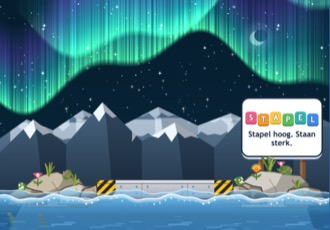
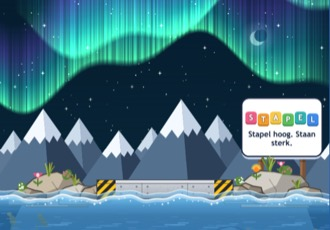
1.15: the northern lights' mountains as real peaks (lit and shaded faces, snow down both slopes); its Winkel photo

diff --git a/js/scenes/bgskins.js b/js/scenes/bgskins.js
@@ -914,64 +914,67 @@ function drawFlare(ctx, w, h) {
 
 /** Noorderlig: snowy peaks and a dark pine forest with snow on its tips. */
 function drawNordic(ctx, w, h) {
-  // (1.15, the owner: "The mountains looks off") a hazy far range, then the main peaks lit from the left (the aurora's side)
-  // and shaded on the right, snow that follows the slopes with a ragged edge; the forest in front
-  const clipTo = (pts) => {
+  // (1.15, the owner: "The mountains looks off", then "Still doesnt feel right, the mountains...") real peaks: each mountain
+  // a triangle with a lit left face and a shaded right face, its snow following both slopes down to a ragged edge; a hazy
+  // far range behind, the main range in front
+  const mountain = (cx, peak, half, lit, dark, snow, depth) => {
+    const X = cx * w;
+    const Y = peak * h;
+    const L = (cx - half) * w;
+    const R = (cx + half) * w;
+    const B = h + 2;
+    const ridgeX = X + half * w * 0.12;   // where the two faces meet at the foot
+    ctx.fillStyle = lit;
     ctx.beginPath();
-    ctx.moveTo(-2, h + 2);
-    for (const [x, y] of pts) ctx.lineTo(x * w, y * h);
-    ctx.lineTo(w + 2, h + 2);
+    ctx.moveTo(L, B);
+    ctx.lineTo(X, Y);
+    ctx.lineTo(ridgeX, B);
     ctx.closePath();
-    ctx.clip();
-  };
-  const snowcaps = (pts, depth, fill) => {
-    ctx.save();
-    clipTo(pts);
-    ctx.fillStyle = fill;
-    for (let i = 1; i < pts.length - 1; i++) {
-      const [px, py] = pts[i];
-      if (py > 0.52) continue;
-      ctx.beginPath();
-      ctx.moveTo((px - 0.13) * w, (py - 0.05) * h);
-      ctx.lineTo((px + 0.13) * w, (py - 0.05) * h);
-      for (let k = 0; k <= 13; k++) {
-        const x = px + 0.13 - k * 0.02;
-        const y = py + depth * (k % 2 ? 1 : 0.62) + (k % 3 === 1 ? depth * 0.25 : 0);
-        ctx.lineTo(x * w, y * h);
+    ctx.fill();
+    ctx.fillStyle = dark;
+    ctx.beginPath();
+    ctx.moveTo(X, Y);
+    ctx.lineTo(R, B);
+    ctx.lineTo(ridgeX, B);
+    ctx.closePath();
+    ctx.fill();
+    // the snow: down each slope to `depth` of the height, a ragged lower edge (lit and shaded like the rock)
+    const at = (f, side) => [X + (side < 0 ? L - X : R - X) * f, Y + (B - Y) * f];
+    const [lx, ly] = at(depth, -1);
+    const [rx, ry] = at(depth * 0.92, 1);
+    const mx = X + (ridgeX - X) * depth;
+    const my = Y + (B - Y) * depth;
+    const jag = (x0, y0, x1, y1, n, amp) => {
+      for (let k = 1; k <= n; k++) {
+        const f = k / n;
+        ctx.lineTo(x0 + (x1 - x0) * f, y0 + (y1 - y0) * f + (k % 2 ? amp : -amp * 0.4));
       }
-      ctx.closePath();
-      ctx.fill();
-    }
-    ctx.restore();
+    };
+    ctx.fillStyle = snow[0];
+    ctx.beginPath();
+    ctx.moveTo(X, Y);
+    ctx.lineTo(lx, ly);
+    jag(lx, ly, mx, my, 4, (B - Y) * depth * 0.18);
+    ctx.closePath();
+    ctx.fill();
+    ctx.fillStyle = snow[1];
+    ctx.beginPath();
+    ctx.moveTo(X, Y);
+    ctx.lineTo(mx, my);
+    jag(mx, my, rx, ry, 4, (B - Y) * depth * 0.16);
+    ctx.closePath();
+    ctx.fill();
   };
-  const shade = (pts, a) => {
-    ctx.save();
-    clipTo(pts);
-    ctx.fillStyle = `rgba(6,14,28,${a})`;
-    for (let i = 1; i < pts.length - 1; i++) {
-      const [px, py] = pts[i];
-      const [vx, vy] = pts[i + 1];
-      if (vy < py) continue;   // (not a peak)
-      ctx.beginPath();
-      ctx.moveTo(px * w, py * h);
-      ctx.lineTo(vx * w, vy * h);
-      ctx.lineTo(vx * w, h + 2);
-      ctx.lineTo((px + 0.035) * w, h + 2);
-      ctx.lineTo((px + 0.012) * w, (py + 0.12) * h);
-      ctx.closePath();
-      ctx.fill();
-    }
-    ctx.restore();
-  };
-  const far = [[0, 0.55], [0.08, 0.43], [0.16, 0.5], [0.25, 0.37], [0.36, 0.48], [0.48, 0.35], [0.6, 0.47], [0.7, 0.39], [0.82, 0.5], [0.92, 0.37], [1, 0.45]];
-  ridge(ctx, w, h, far, vgrad(ctx, h, '#5d7a96', '#344c63', 0.35 * h));
-  snowcaps(far, 0.06, 'rgba(228,240,252,0.6)');
-  shade(far, 0.18);
-  const peaks = [[0, 0.64], [0.1, 0.43], [0.2, 0.59], [0.31, 0.32], [0.43, 0.57], [0.53, 0.45], [0.65, 0.61], [0.77, 0.34], [0.89, 0.53], [1, 0.47]];
-  ridge(ctx, w, h, peaks, vgrad(ctx, h, '#4a6884', '#1c2e41', 0.3 * h));
-  snowcaps(peaks, 0.1, '#eef6ff');
-  shade(peaks, 0.34);
-  // (1.15, the owner: "those black pointy stuff at the bottom, please remove it for now": the pine forest is gone)
+  // the far range: hazy blue
+  for (const [cx, pk, hf] of [[0.04, 0.5, 0.16], [0.24, 0.42, 0.18], [0.46, 0.48, 0.17], [0.66, 0.4, 0.19], [0.9, 0.46, 0.18]]) {
+    mountain(cx, pk, hf, '#5d7894', '#425a75', ['rgba(226,238,250,0.85)', 'rgba(186,204,224,0.85)'], 0.26);
+  }
+  // the main range
+  for (const [cx, pk, hf] of [[0.13, 0.36, 0.2], [0.36, 0.5, 0.17], [0.55, 0.3, 0.22], [0.8, 0.42, 0.2], [1.02, 0.52, 0.16]]) {
+    mountain(cx, pk, hf, '#53708e', '#2c405a', ['#f4f9ff', '#c4d4e6'], 0.3);
+  }
+  // a dark shoreline at the foot
+  ridge(ctx, w, h, [[0, 0.95], [0.2, 0.93], [0.45, 0.955], [0.7, 0.935], [1, 0.95]], '#1b2a3d');
 }
 
 /** Diep ruimte: no land at all (1.15). */
